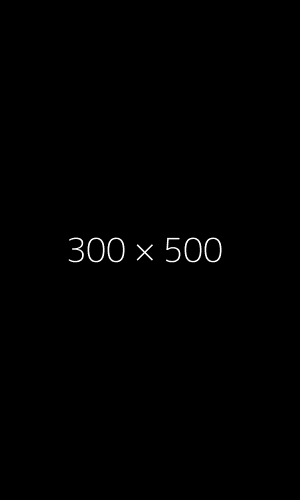
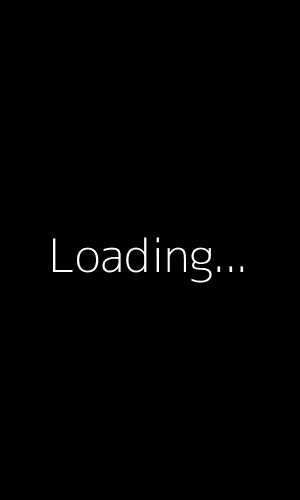
minor fixes

Changed region(s): [[0.24, 0.45, 0.78, 0.57], [0.15, 0.48, 0.24, 0.57]]

diff --git a/pages/chapter.html b/pages/chapter.html
@@ -12,7 +12,7 @@
     />
     <meta name="author" content="Kevin Khyle Gepulle" />
     <meta name="viewport" content="width=device-width, initial-scale=1.0" />
-    <title>Chapter 12: New Beginning</title>
+    <title>Loading...</title>
 
     <!-- ICON -->
     <link rel="shortcut icon" href="../images/logo.jpg" type="image/x-icon" />
@@ -89,14 +89,16 @@
       <ul class="list">
         <li><a href="../index.html">home</a> ></li>
         <li><a href="latest.html">novel</a> ></li>
-        <li><a href="novel.html" id="breadcrumbs_novel_title"></a> ></li>
+        <li>
+          <a href="novel.html" id="breadcrumbs_novel_title">Loading...</a> >
+        </li>
       </ul>
     </div>
     <main id="main-content">
       <section class="main_containers" id="chapter">
         <div class="chapter_title_container">
-          <h3 class="novel_title"></h3>
-          <span class="novel_chapter"></span>
+          <h3 class="novel_title">Loading...</h3>
+          <span class="novel_chapter">Loading...</span>
         </div>
         <div class="chapter_nav">
           <a
@@ -119,6 +121,7 @@
         <div class="content-container">
           <div class="chapter_content_container">
             <p class="blocker"></p>
+            <p class="loading_text">Loading...</p>
           </div>
         </div>
         <div class="chapter_nav">

diff --git a/pages/genre.html b/pages/genre.html
@@ -12,7 +12,7 @@
     />
     <meta name="author" content="Kevin Khyle Gepulle" />
     <meta name="viewport" content="width=device-width, initial-scale=1.0" />
-    <title>Novel Junkyard - Genres</title>
+    <title>Loading...</title>
 
     <!-- ICON -->
     <link rel="shortcut icon" href="../images/logo.jpg" type="image/x-icon" />
@@ -93,7 +93,7 @@
       <ul class="list">
         <li><a href="../index.html">home</a> ></li>
         <li><a href="genre.html">genres</a> ></li>
-        <li><a href="genre.html" class="genre-selected"></a> ></li>
+        <li><a href="genre.html" class="genre-selected">Loading...</a> ></li>
       </ul>
     </div>
     <main id="main-content">
@@ -130,7 +130,9 @@
             <span>Last</span> <i class="fa-solid fa-angles-right"></i>
           </button>
         </div>
-        <div class="content-container" id="genre_content_container"></div>
+        <div class="content-container" id="genre_content_container">
+          <p class="loading_text">Loading...</p>
+        </div>
         <div class="paginaton_container">
           <button id="first_page">
             <i class="fa-solid fa-angles-left"></i> <span>First</span>

diff --git a/index.html b/index.html
@@ -136,7 +136,9 @@
           </a>
         </div>
         <div class="card-container">
-          <div class="container" id="hot_novels_home_container"></div>
+          <div class="container" id="hot_novels_home_container">
+            <p class="loading_text">Loading...</p>
+          </div>
         </div>
       </section>
       <section class="main_containers" id="latest_novels">
@@ -150,7 +152,9 @@
           <div
             class="latest-left-content-container"
             id="latest_novels_home_container"
-          ></div>
+          >
+            <p class="loading_text">Loading...</p>
+          </div>
           <aside class="genre-right-content-container">
             <h4>GENRES <i class="fa-solid fa-angles-down"></i></h4>
             <div class="genre-container"></div>
@@ -167,7 +171,9 @@
         <div
           class="completed_novels_container"
           id="completed_novels_home_container"
-        ></div>
+        >
+          <p class="loading_text">Loading...</p>
+        </div>
       </section>
     </main>
     <footer id="footer">

diff --git a/scripts/home.js b/scripts/home.js
@@ -26,6 +26,7 @@ window.addEventListener("load", () => {
     .then((json) => {
       redirectIfHasError(fetchStatus, json);
 
+      hot_novels_home_container.innerHTML = "";
       json.forEach((item) => {
         createHomeHotNovelElements(item);
       });
@@ -43,6 +44,7 @@ window.addEventListener("load", () => {
     .then((json) => {
       redirectIfHasError(fetchStatus, json);
 
+      latest_novels_home_container.innerHTML = "";
       json.forEach((item) => {
         createHomeLatestNovelElements(item);
       });
@@ -58,6 +60,7 @@ window.addEventListener("load", () => {
     .then((json) => {
       redirectIfHasError(fetchStatus, json);
 
+      completed_novels_home_container.innerHTML = "";
       json.forEach((item) => {
         createHomeCompletedNovelElements(item);
       });

diff --git a/pages/novel.html b/pages/novel.html
@@ -12,7 +12,7 @@
     />
     <meta name="author" content="Kevin Khyle Gepulle" />
     <meta name="viewport" content="width=device-width, initial-scale=1.0" />
-    <title>Novel Junkyard - Novel</title>
+    <title>Loading...</title>
 
     <!-- ICON -->
     <link rel="shortcut icon" href="../images/logo.jpg" type="image/x-icon" />
@@ -93,7 +93,7 @@
       <ul class="list">
         <li><a href="../index.html">home</a> ></li>
         <li><a href="latest.html">novel</a> ></li>
-        <li><a href="#" id="breadcrumbs_novel_title">Novel title</a> ></li>
+        <li><a href="#" id="breadcrumbs_novel_title">Loading...</a> ></li>
       </ul>
     </div>
     <main id="main-content">

diff --git a/scripts/chapter.js b/scripts/chapter.js
@@ -5,6 +5,7 @@ const novel_title = document.querySelector(".novel_title");
 const novel_chapter = document.querySelector(".novel_chapter");
 const prev_chapter = document.querySelectorAll("#prev_chapter");
 const next_chapter = document.querySelectorAll("#next_chapter");
+const loading_text = document.querySelector(".loading_text");
 
 let fetching = true;
 let protocol;
@@ -44,6 +45,7 @@ window.addEventListener("load", async () => {
       })
       .then((data) => {
         redirectIfHasError(fetchStatus, data);
+        loading_text.style.display = "none";
 
         data.map((item, i) => {
           if (item.p !== undefined) {

diff --git a/styles/darkmode.css b/styles/darkmode.css
@@ -58,4 +58,24 @@ button {
   border-top: 1px dotted var(--main-txt-color-light);
   border-bottom: 1px dotted var(--main-txt-color-light);
 }
+
+/* width */
+::-webkit-scrollbar {
+  width: 10px;
+}
+
+/* Track */
+::-webkit-scrollbar-track {
+  background: var(--main-bg-color-gray);
+}
+
+/* Handle */
+::-webkit-scrollbar-thumb {
+  background: var(--main-txt-color-dark);
+}
+
+/* Handle on hover */
+::-webkit-scrollbar-thumb:hover {
+  background: var(--main-bg-color-dark);
+}
 /* dark mode */

diff --git a/pages/completed.html b/pages/completed.html
@@ -141,7 +141,9 @@
             <span>Last</span> <i class="fa-solid fa-angles-right"></i>
           </button>
         </div>
-        <div class="content-container" id="completed_content_container"></div>
+        <div class="content-container" id="completed_content_container">
+          <p class="loading_text">Loading...</p>
+        </div>
         <div class="paginaton_container">
           <button id="first_page">
             <i class="fa-solid fa-angles-left"></i> <span>First</span>

diff --git a/pages/latest.html b/pages/latest.html
@@ -143,7 +143,9 @@
             <span>Last</span> <i class="fa-solid fa-angles-right"></i>
           </button>
         </div>
-        <div class="content-container" id="latest_content_container"></div>
+        <div class="content-container" id="latest_content_container">
+          <p class="loading_text">Loading...</p>
+        </div>
         <div class="paginaton_container">
           <button id="first_page">
             <i class="fa-solid fa-angles-left"></i> <span>First</span>

diff --git a/pages/hot.html b/pages/hot.html
@@ -145,7 +145,9 @@
             <span>Last</span> <i class="fa-solid fa-angles-right"></i>
           </button>
         </div>
-        <div class="content-container" id="hot_content_container"></div>
+        <div class="content-container" id="hot_content_container">
+          <p class="loading_text">Loading...</p>
+        </div>
         <div class="paginaton_container">
           <button id="first_page">
             <i class="fa-solid fa-angles-left"></i> <span>First</span>

diff --git a/pages/search.html b/pages/search.html
@@ -131,6 +131,7 @@
           <div class="error_message" style="display: none">
             <p>No Match found <i class="fa-solid fa-search"></i></p>
           </div>
+          <p class="loading_text">Loading...</p>
         </div>
         <div class="paginaton_container">
           <button id="first_page">

diff --git a/scripts/pagination.js b/scripts/pagination.js
@@ -250,6 +250,7 @@ function getSearchResults(key, page) {
 
       if (result.length === 1) {
         disableAllButton();
+        loading_text.style.display = "none";
         error_message.style.display = "block";
 
         removeLoader();
